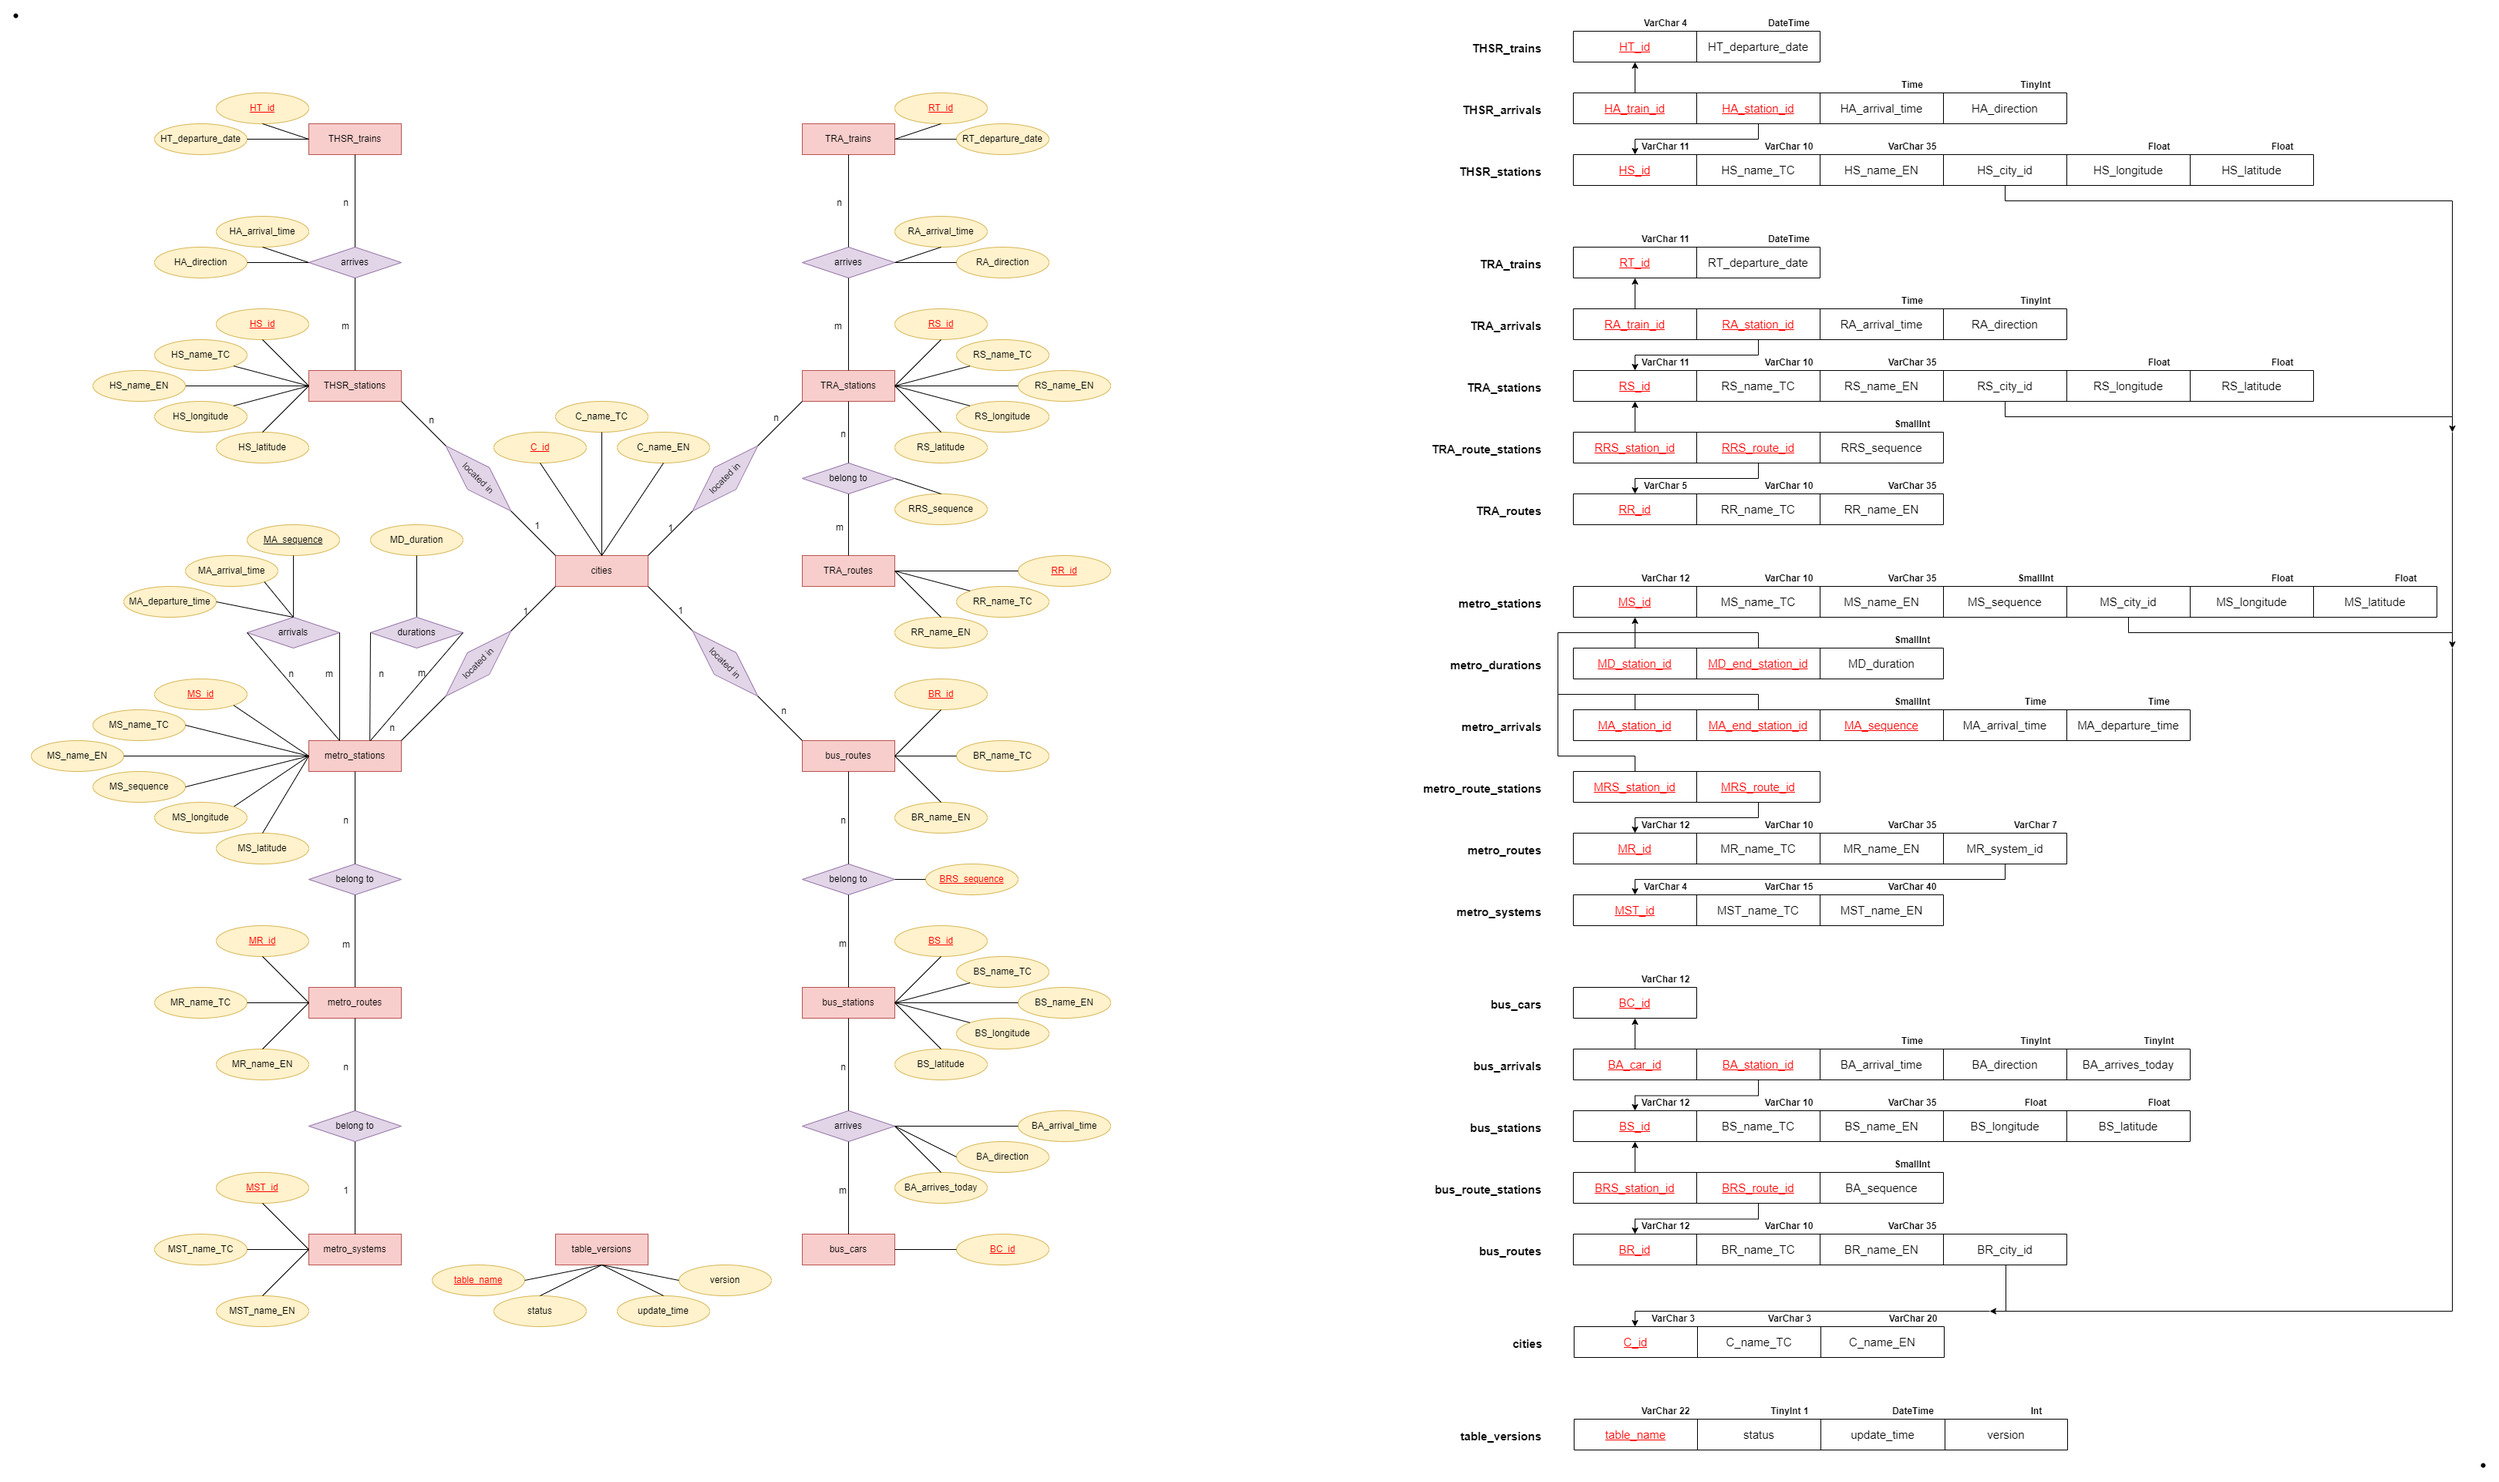
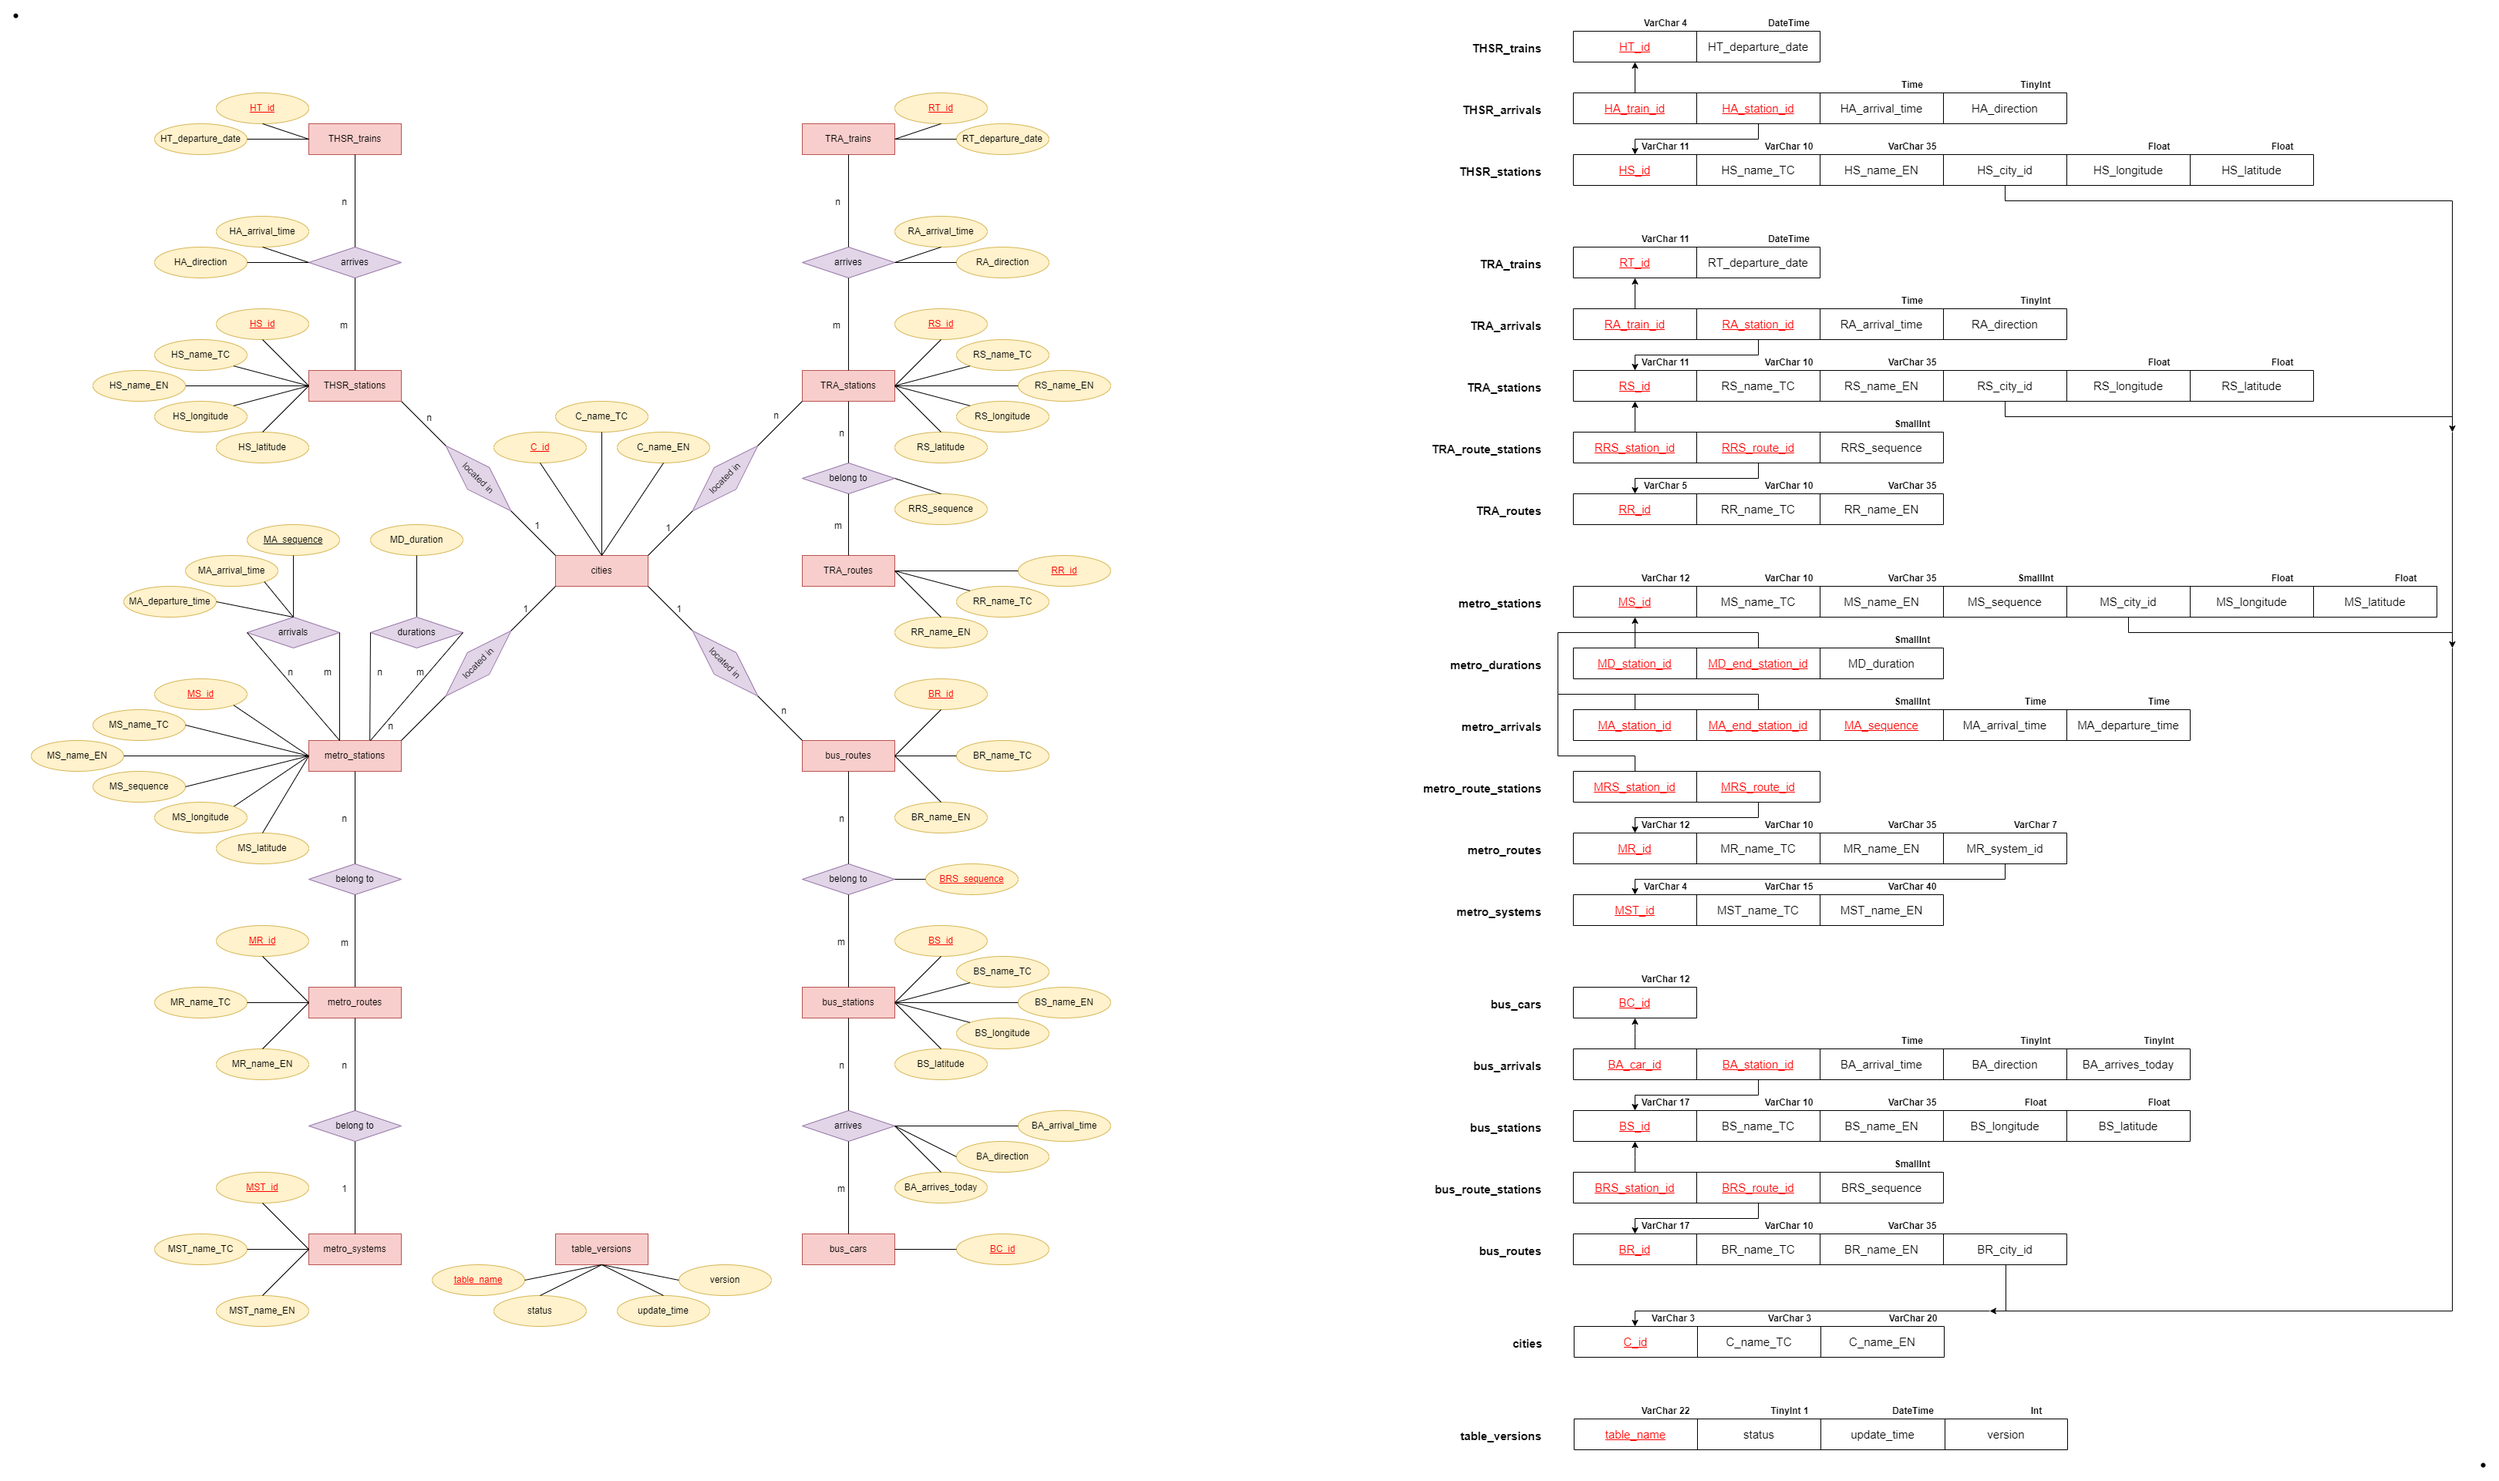
以加長部分屬性的長度。

diff --git a/app/Controllers/ApiController.php b/app/Controllers/ApiController.php
@@ -562,7 +562,7 @@ class ApiController extends BaseController
         try
         {
             // 驗證參數
-            if (!$this->validate_route($routeId))
+            if (!$this->validate_route($routeId, 17))
             {
                 return $this->send_response([], 400, $this->validateErrMsg);
             }
@@ -595,7 +595,7 @@ class ApiController extends BaseController
         try
         {
             // 驗證參數
-            if (!$this->validate_route($routeId) || !$this->validate_coordinates($longitude, $latitude))
+            if (!$this->validate_route($routeId, 17) || !$this->validate_coordinates($longitude, $latitude))
             {
                 return $this->send_response([], 400, $this->validateErrMsg);
             }
@@ -628,7 +628,7 @@ class ApiController extends BaseController
         {
             
             // 驗證參數
-            if (!$this->validate_stations($fromStationId, $toStationId))
+            if (!$this->validate_stations($fromStationId, $toStationId, 17, 17))
             {
                 return $this->send_response([], 400, $this->validateErrMsg);
             }

diff --git a/app/Database/Migrations/2022-09-27-105447_RelengthBRSStationAndRouteId.php b/app/Database/Migrations/2022-09-27-105447_RelengthBRSStationAndRouteId.php
@@ -1,0 +1,41 @@
+<?php
+
+namespace App\Database\Migrations;
+
+use CodeIgniter\Database\Migration;
+
+class RelengthBRSStationAndRouteId extends Migration
+{
+    /**
+     * 加長 BRS_station_id 及 BRS_route_id 的長度
+     */
+    public function up()
+    {
+        $fields = [
+            "BRS_station_id" => [
+                "type" => "VARCHAR",
+                "constraint" => 17
+            ],
+            "BRS_route_id" => [
+                "type" => "VARCHAR",
+                "constraint" => 17
+            ]
+        ];
+        $this->forge->modifyColumn("bus_route_stations", $fields);
+    }
+
+    public function down()
+    {
+        $fields = [
+            "BRS_station_id" => [
+                "type" => "VARCHAR",
+                "constraint" => 12
+            ],
+            "BRS_route_id" => [
+                "type" => "VARCHAR",
+                "constraint" => 12
+            ]
+        ];
+        $this->forge->modifyColumn("bus_route_stations", $fields);
+    }
+}

diff --git a/app/Database/Migrations/2022-09-27-105339_RelengthBAStationId.php b/app/Database/Migrations/2022-09-27-105339_RelengthBAStationId.php
@@ -1,0 +1,33 @@
+<?php
+
+namespace App\Database\Migrations;
+
+use CodeIgniter\Database\Migration;
+
+class RelengthBAStationId extends Migration
+{
+    /**
+     * 加長 BA_station_id 的長度
+     */
+    public function up()
+    {
+        $fields = [
+            "BA_station_id" => [
+                "type" => "VARCHAR",
+                "constraint" => 17
+            ]
+        ];
+        $this->forge->modifyColumn("bus_arrivals", $fields);
+    }
+
+    public function down()
+    {
+        $fields = [
+            "BA_station_id" => [
+                "type" => "VARCHAR",
+                "constraint" => 12
+            ]
+        ];
+        $this->forge->modifyColumn("bus_arrivals", $fields);
+    }
+}

diff --git a/app/Database/Migrations/2022-09-27-105119_RelengthBSId.php b/app/Database/Migrations/2022-09-27-105119_RelengthBSId.php
@@ -1,0 +1,33 @@
+<?php
+
+namespace App\Database\Migrations;
+
+use CodeIgniter\Database\Migration;
+
+class RelengthBSId extends Migration
+{
+    /**
+     * 加長 BS_id 的長度
+     */
+    public function up()
+    {
+        $fields = [
+            "BS_id" => [
+                "type" => "VARCHAR",
+                "constraint" => 17
+            ]
+        ];
+        $this->forge->modifyColumn("bus_stations", $fields);
+    }
+
+    public function down()
+    {
+        $fields = [
+            "BS_id" => [
+                "type" => "VARCHAR",
+                "constraint" => 12
+            ]
+        ];
+        $this->forge->modifyColumn("bus_stations", $fields);
+    }
+}

diff --git a/app/Database/Migrations/2022-09-27-105254_RelengthBRId.php b/app/Database/Migrations/2022-09-27-105254_RelengthBRId.php
@@ -1,0 +1,33 @@
+<?php
+
+namespace App\Database\Migrations;
+
+use CodeIgniter\Database\Migration;
+
+class RelengthBRId extends Migration
+{
+    /**
+     * 加長 BR_id 的長度
+     */
+    public function up()
+    {
+        $fields = [
+            "BR_id" => [
+                "type" => "VARCHAR",
+                "constraint" => 17
+            ]
+        ];
+        $this->forge->modifyColumn("bus_routes", $fields);
+    }
+
+    public function down()
+    {
+        $fields = [
+            "BR_id" => [
+                "type" => "VARCHAR",
+                "constraint" => 12
+            ]
+        ];
+        $this->forge->modifyColumn("bus_routes", $fields);
+    }
+}
